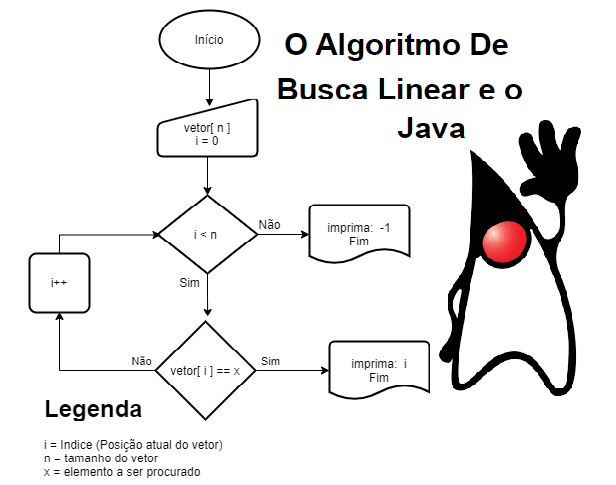
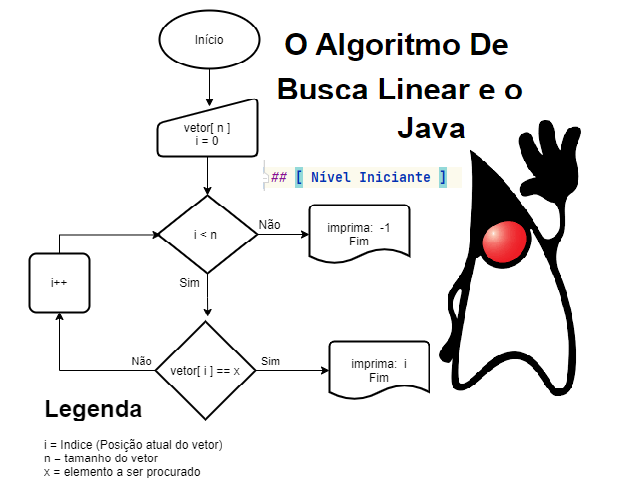
...

diff --git a/README.md b/README.md
@@ -206,7 +206,7 @@ Você pode conferir o código do artigo no meu [gitHub](https://github.com/Udine
 
 Dúvidas ou sugestões, manda no meu email: udineisilva@gmail.com
 
-
+## [ Nível Iniciante ]
 # Referências
 - [Algoritmos Teoria e Prática](https://www.cin.ufpe.br/~ara/algoritmos-%20portugu%EAs-%20cormen.pdf)
 - [HashMap](https://docs.oracle.com/javase/8/docs/api/java/util/HashMap.html)
